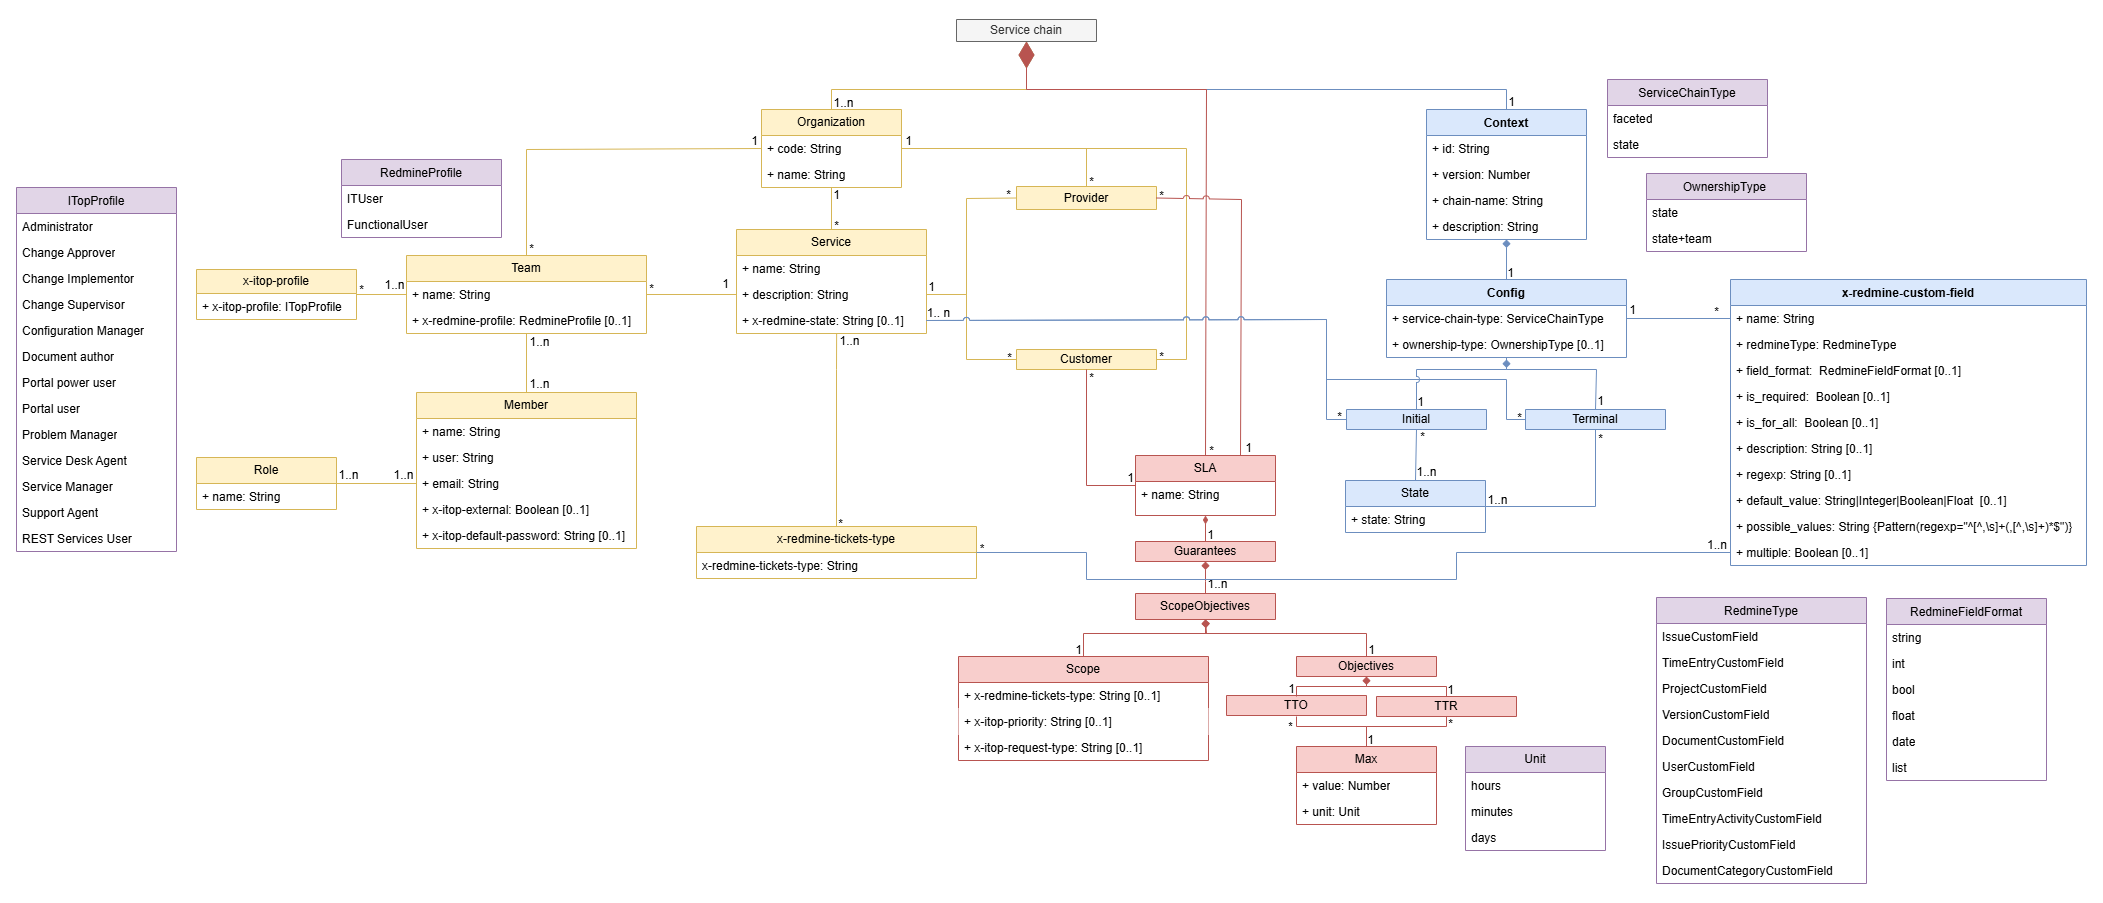
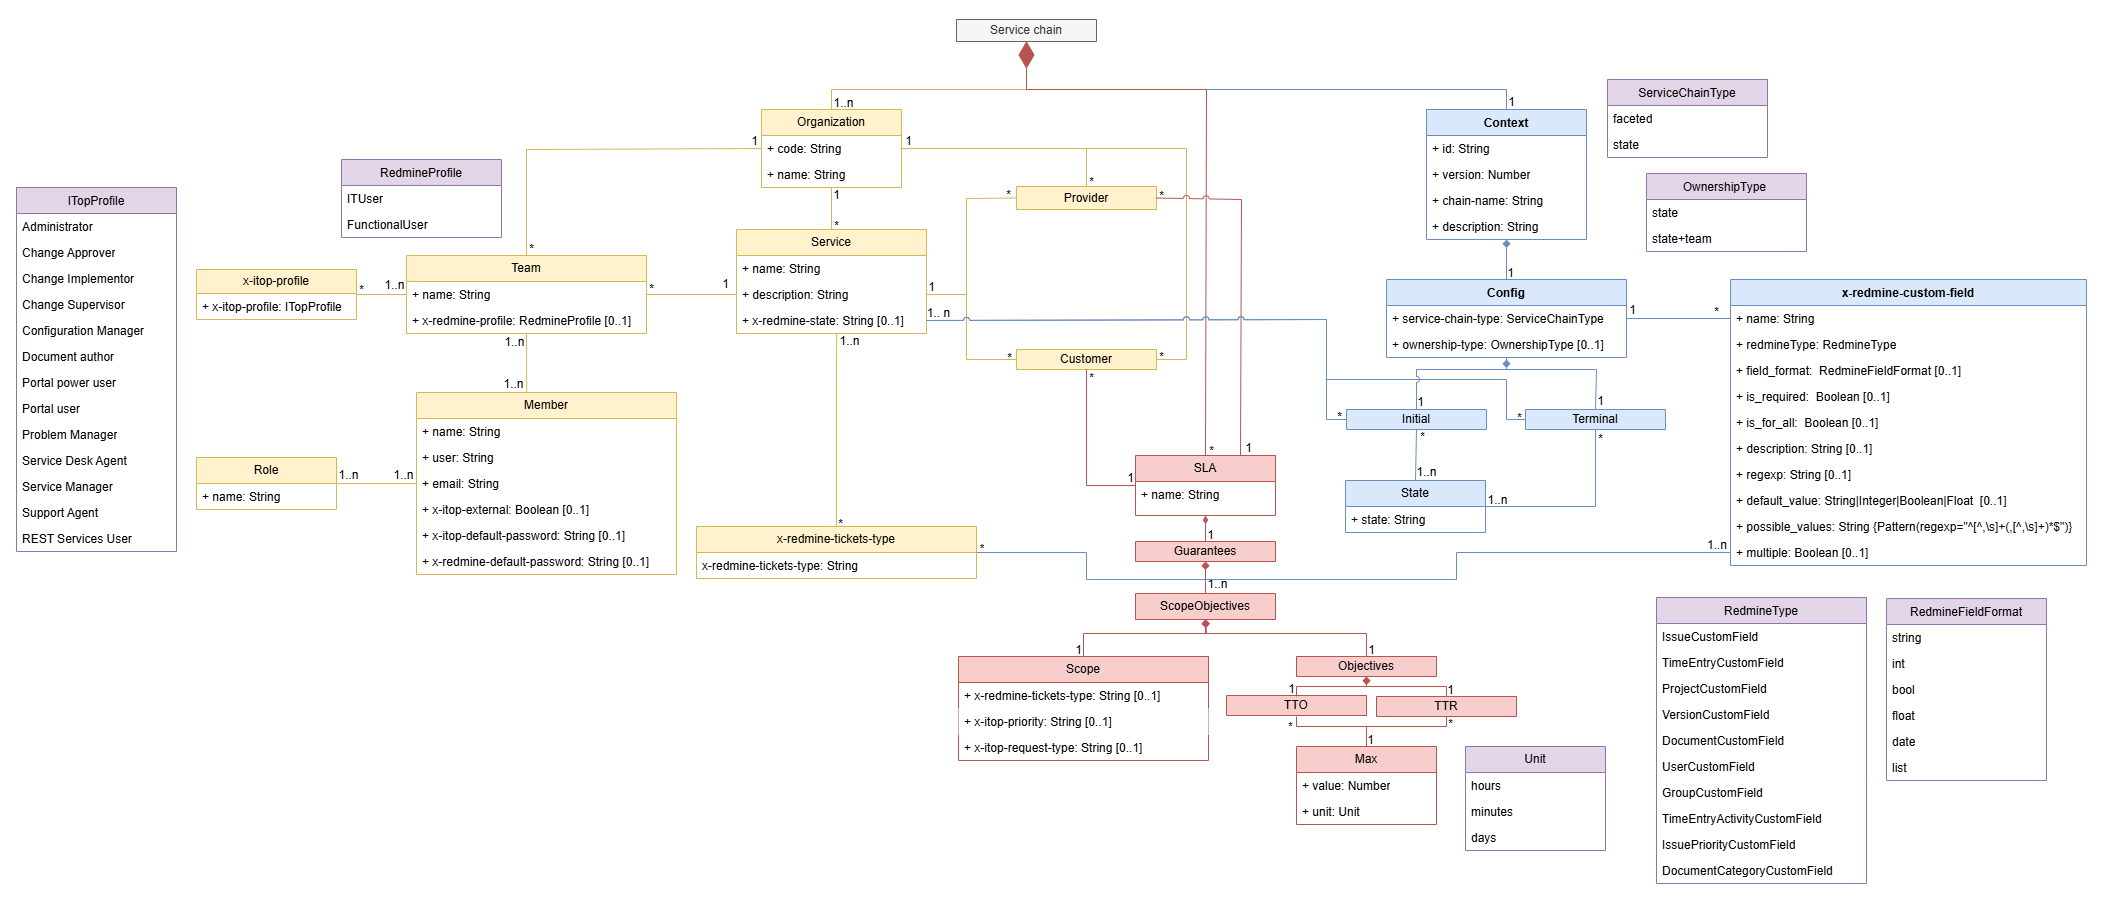
docs: add x-redmine-default-password prop

diff --git a/docs/Specification.md b/docs/Specification.md
@@ -372,7 +372,8 @@ Here we leave the ITop official documentation chart about profiles.
 | user        | `String`                         | **Required**       | Username of the team member. It is the login name for the person. |  
 | email       | `String`                         | **Required**       | Email of the team member. |  
 | roles       | [Role[]](#role)   | Optional       | List of roles assigned to the member. |  
-| x-itop-default-password       | `String`   | Optional       | If the user is going to be imported on ITop and it is not going to be an externalUser, you can choose this account's password with this property. It must contains at least 8 characters, 1 number, 1 uppercase, 1 lowercase and 1 special character. If this property is not defined, by default the password will be **changeMe1@**. |  
+| x-itop-default-password       | `String`   | Optional       | If the user is going to be imported on ITop and it is not going to be an externalUser, you can choose this account's password with this property. It must contains at least 8 characters, 1 number, 1 uppercase, 1 lowercase and 1 special character. If this property is not defined, by default the password will be **changeMe1@**. | 
+| x-redmine-default-password       | `String`   | Optional       | If the user is going to be imported on Redmine You can choose this account's password with this property. It must contains at least 8 characters, 1 number, 1 uppercase, 1 lowercase and 1 special character. If this property is not defined, by default the password will be **changeMe1@**. |  
 | x-itop-external       | `Boolean`   | Optional       | If the user is going to be imported on ITop, you can choose the account's type. If the property is ***true***, the user will be imported as an ExternalUser. In case the property is not defined or it is false, it will be imported as LocalUser. |  
 | x-itop-profiles     | [ITopProfile[]](#itopprofile) | Optional       | In addition to all ITop profiles associated with the team that the user inherits, you can add some private profiles to it using this property. |
 | x-redmine-profiles     | [RedmineProfile[]](#redmineProfile) | Optional       | In addition to all Redmine profiles associated with the team that the user inherits, you can add some private profiles to it using this property. |
